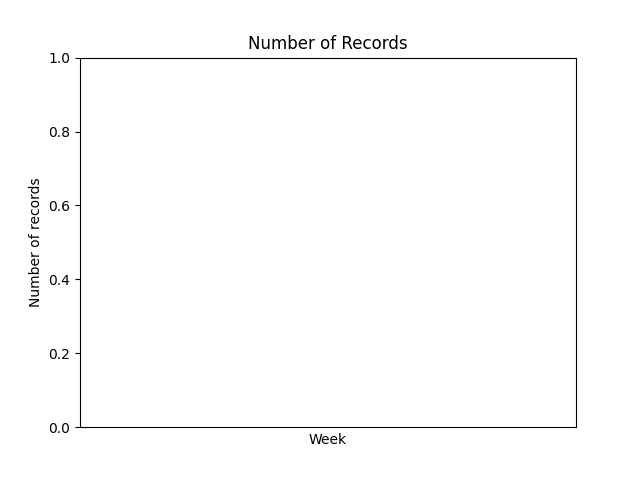
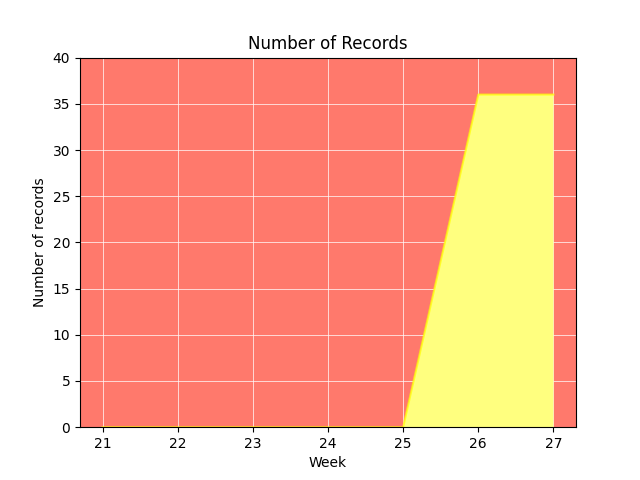
More Bug fix

diff --git a/server/firebase.py b/server/firebase.py
@@ -9,15 +9,20 @@ class AttemptToDuplicateFirebase(Exception): pass
 
 
 def get_week():
-    date = datetime.datetime.now().date()
-    one_day = datetime.timedelta(days=1)
-    day_idx = date.weekday() % 7
-    monday = date - datetime.timedelta(days=day_idx)
-    date = monday
-    week = [date.isoformat()]
-    for n in range(6):
-        date += one_day
-        week.append(date.isoformat())
+    # date = datetime.datetime.now().date()
+    # one_day = datetime.timedelta(days=1)
+    # day_idx = date.weekday() % 7
+    # monday = date - datetime.timedelta(days=day_idx)
+    # date = monday
+    # week = [date.isoformat()]
+    # for n in range(6):
+    #     date += one_day
+    #     week.append(date.isoformat())
+    today = datetime.date.today()
+    week = []
+    for i in range(7):
+        week.append((today - datetime.timedelta(days=6-i)).isoformat())
+        
     return week
 
 
@@ -77,18 +82,27 @@ class Firebase:
 
     def dayVSrecords(self, id, idtk):
         records = self.db.child("records").child(id).get(idtk).val()
-        dates = []
-        for key, value in records.items():
-            try:
-                dates.append(value['Time'].split(" ")[0])
-            except:
-                pass
-        week = get_week()
+        
+        dates = get_week();
+        acc_counts = []
+        
+        total_daily_count = 0
+        for day in dates:
+            for record in records.values():
+                try:
+                    recorded_date = record['Time'].split(" ")[0]
+                    if day == recorded_date:
+                        total_daily_count += 1
+                except: 
+                    pass
+            acc_counts.append(total_daily_count)        
+            
+        x = [datetime.datetime.strptime(d, "%Y-%m-%d").date() for d in dates]
+        y = acc_counts
 
-        x = [datetime.datetime.strptime(d, "%Y-%m-%d").date() for d in week]
-        y = [dates.count(day) for day in x]
-
+        plt.cla()
         ax = plt.gca()
+        ax.set_facecolor('xkcd:salmon')
         formatter = md.DateFormatter("%d")
         ax.xaxis.set_major_formatter(formatter)
         locator = md.DayLocator()
@@ -96,62 +110,79 @@ class Firebase:
         plt.xlabel("Week")
         plt.ylabel("Number of records")
         plt.title("Number of Records")
-        plt.ylim(0)
-        plt.plot(x, y)
+        plt.ylim(0, total_daily_count + 4)
+        ax.set_axisbelow(True)
+        plt.grid(color='w', linestyle='-', linewidth=0.5)
+        plt.fill_between(x, y, facecolor='white')
+        plt.fill_between(x, y, facecolor= 'yellow', alpha=0.5)
+        plt.plot(x, y, color='yellow', alpha=0.7)
         plt.savefig("basket/r/%(id)s.png" % {'id': id})
+        plt.cla()
+
 
     def dayVSmoney(self, id, idtk):
         records = self.db.child("records").child(id).get(idtk).val()
-        week = get_week()
-        x = []
-        y = []
-        totalSpent = 0
-        for day in week:
+        dates = get_week()
+
+        spents = []
+        total_spent = 0
+        
+        for day in dates:
             for key, value in records.items():
                 try:
                     if value['Time'].split(" ")[0] == day:
-                        totalSpent += value['Price']
+                        total_spent += value['Price']
                 except:
                     pass
-            x.append(day)
-            y.append(totalSpent)
-
+            spents.append(total_spent)
+        
+        x = [datetime.datetime.strptime(d, "%Y-%m-%d").date() for d in dates]
+        y = spents
+        
+        plt.cla()
         ax = plt.gca()
+        ax.set_facecolor('xkcd:salmon')
         formatter = md.DateFormatter("%d")
         ax.xaxis.set_major_formatter(formatter)
         locator = md.DayLocator()
         ax.xaxis.set_major_locator(locator)
         plt.xlabel("Week")
-        plt.ylabel("Total spent")
-        plt.title("Total Spent")
-        plt.ylim(0)
-        plt.plot(x, y)
+        plt.ylabel("Total Spent")
+        plt.title("Weekly Total Spent")
+        plt.ylim(0, total_spent + 5)
+        ax.set_axisbelow(True)
+        plt.grid(color='w', linestyle='-', linewidth=0.5)
+        plt.fill_between(x, y, facecolor='white')
+        plt.fill_between(x, y, facecolor='green', alpha=0.5)
+        plt.plot(x, y, color='green', alpha=0.7)
         plt.savefig("basket/m/%(id)s.png" % {'id': id})
+        plt.cla()
 
-    def dayVScalories(self, id, idtk):
-        records = self.db.child("records").child(id).get(idtk).val()
-        week = get_week()
-        x = []
-        y = []
-        for day in week:
-            dailyCalories = 0
-            for key, value in records.items():
-                if value['Time'].split(" ")[0] == day:
-                    dailyCalories += value['Calories']
-            x.append(day)
-            y.append(dailyCalories)
 
-        ax = plt.gca()
-        formatter = md.DateFormatter("%d")
-        ax.xaxis.set_major_formatter(formatter)
-        locator = md.DayLocator()
-        ax.xaxis.set_major_locator(locator)
-        plt.xlabel("Week")
-        plt.ylabel("Total spent")
-        plt.title("Total Spent")
-        plt.ylim(0)
-        plt.plot(x, y)
-        plt.savefig("basket/c/%(id)s.png" % {'id': id})
+    # def dayVScalories(self, id, idtk):
+    #     records = self.db.child("records").child(id).get(idtk).val()
+    #     week = get_week()
+    #     x = []
+    #     y = []
+    #     for day in week:
+    #         dailyCalories = 0
+    #         for key, value in records.items():
+    #             if value['Time'].split(" ")[0] == day:
+    #                 dailyCalories += value['Calories']
+    #         x.append(day)
+    #         y.append(dailyCalories)
+
+    #     ax = plt.gca()
+    #     formatter = md.DateFormatter("%d")
+    #     ax.xaxis.set_major_formatter(formatter)
+    #     locator = md.DayLocator()
+    #     ax.xaxis.set_major_locator(locator)
+    #     plt.xlabel("Week")
+    #     plt.ylabel("Total spent")
+    #     plt.title("Total Spent")
+    #     plt.ylim(0)
+    #     plt.plot(x, y)
+    #     plt.savefig("basket/c/%(id)s.png" % {'id': id})
 
     #
     # def send_pw_reset_email(self, email):
